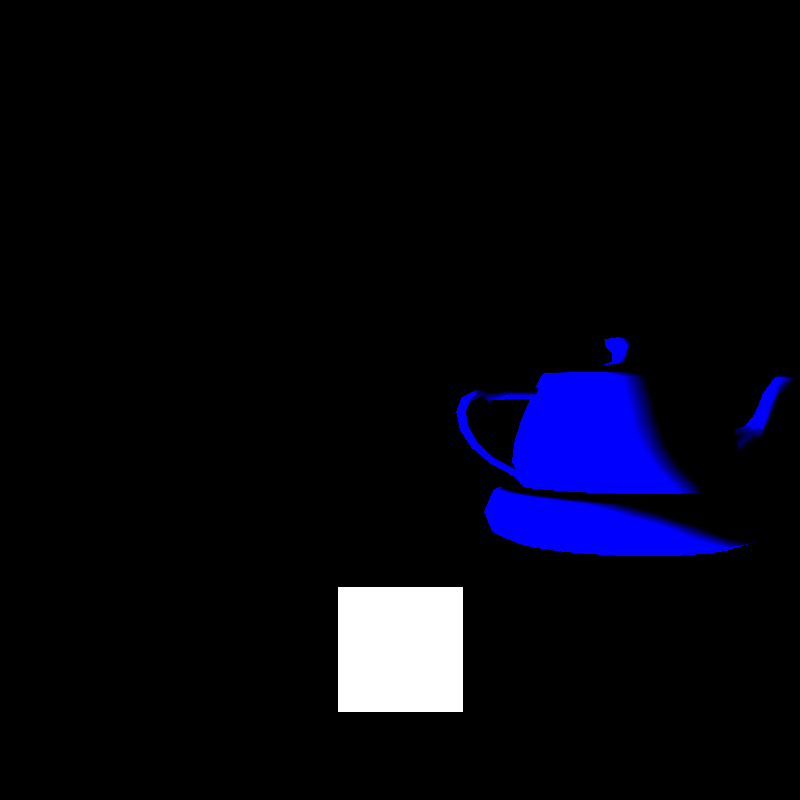
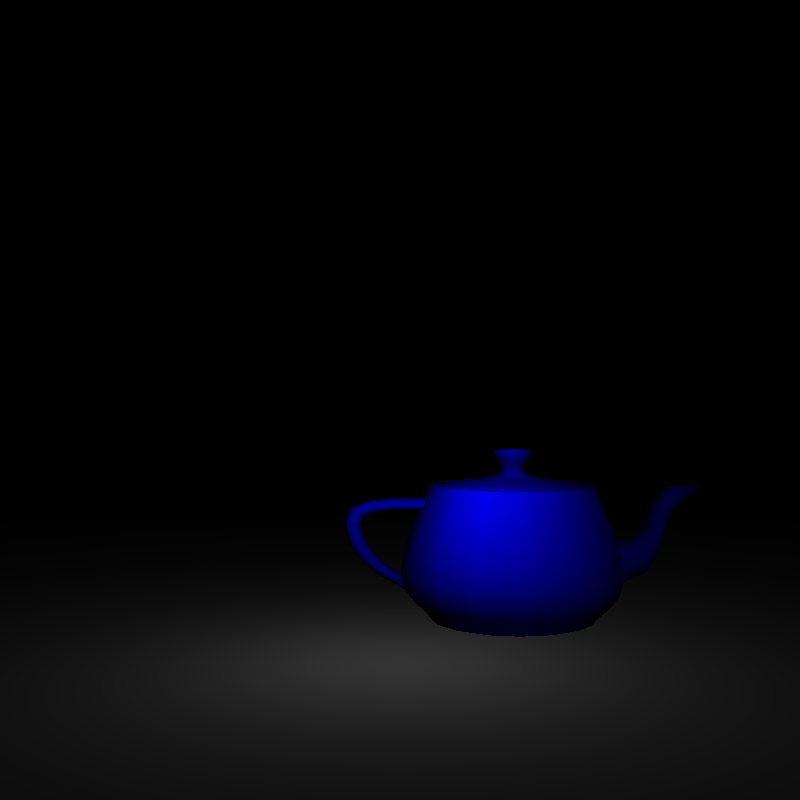
Raytracer v0.7.5
Light range applied

Changed region(s): [[0.125, 0.4062, 0.9375, 0.9688], [0.9062, 0.4688, 1.0, 0.5625]]

diff --git a/src/edu/up/isgc/raytracer/Raytracer.java b/src/edu/up/isgc/raytracer/Raytracer.java
@@ -27,18 +27,20 @@ public class Raytracer {
     public static void main(String[] args) {
         System.out.println(new Date());
         Scene scene01 = new Scene();
-        scene01.setCamera(new Camera(new Vector3D(0, 0, -8), 160, 160, 800, 800, 8.2f, 10f));
-        //scene01.addLight(new DirectionalLight(Vector3D.ZERO(), new Vector3D(0.0, 0.0, 1.0), Color.WHITE, 0.8));
-        scene01.addLight(new PointLight(new Vector3D(8f,2f,2f), Color.WHITE,0.8));
-        scene01.addObject(new Sphere(new Vector3D(0f, 1f, 5f), 0.5f, Color.RED));
-        scene01.addObject(new Sphere(new Vector3D(0.5f, 1f, 4.5f), 0.25f, new Color(200, 255, 0)));
-        scene01.addObject(new Sphere(new Vector3D(0.35f, 1f, 4.5f), 0.3f, Color.BLUE));
-        scene01.addObject(new Sphere(new Vector3D(4.85f, 1f, 4.5f), 0.3f, Color.PINK));
-        scene01.addObject(new Sphere(new Vector3D(2.85f, 1f, 304.5f), 0.5f, Color.BLUE));
-        scene01.addObject(OBJReader.GetPolygon("Cube.obj", new Vector3D(0f, -2.5f, 1f), Color.WHITE));
-        scene01.addObject(OBJReader.GetPolygon("CubeQuad.obj", new Vector3D(-3f, -2.5f, 3f), Color.GREEN));
-        scene01.addObject(OBJReader.GetPolygon("SmallTeapot.obj", new Vector3D(2f, -1.0f, 1.5f), Color.BLUE));
-        scene01.addObject(OBJReader.GetPolygon("Ring.obj", new Vector3D(2f, -1.0f, 1.5f), Color.BLUE));
+        scene01.setCamera(new Camera(new Vector3D(0, 0, -8), 160, 160, 800, 800, 0f, 50f));
+        scene01.addLight(new DirectionalLight(Vector3D.ZERO(), new Vector3D(0.0, -0.5, 1.0), Color.WHITE, 1.8));
+        //scene01.addLight(new PointLight(new Vector3D(2f,-1.0f,0.5f), Color.WHITE,0.8));
+        //scene01.addObject(new Sphere(new Vector3D(0f, 1f, 5f), 0.5f, Color.RED));
+        //scene01.addObject(new Sphere(new Vector3D(0.5f, 1f, 4.5f), 0.25f, new Color(200, 255, 0)));
+        //scene01.addObject(new Sphere(new Vector3D(0.35f, 1f, 4.5f), 0.3f, Color.BLUE));
+        //scene01.addObject(new Sphere(new Vector3D(4.85f, 1f, 4.5f), 0.3f, Color.PINK));
+        //scene01.addObject(new Sphere(new Vector3D(2.85f, 1f, 304.5f), 0.5f, Color.BLUE));
+        scene01.addObject(new Polygon(new Vector3D(0f, -2f, 0f), new Triangle[]{new Triangle(new Vector3D(10f,0f,10f), new Vector3D(-10f,0f,10f), new Vector3D(-10f,0f,-10f)),
+                new Triangle(new Vector3D(-10f,0f,-10f), new Vector3D(10f,0f,-10f), new Vector3D(10f,0f,10f))}, Color.WHITE));
+        //scene01.addObject(OBJReader.GetPolygon("Cube.obj", new Vector3D(0f, -2.5f, 1f), Color.WHITE));
+        //scene01.addObject(OBJReader.GetPolygon("CubeQuad.obj", new Vector3D(-3f, -2.5f, 3f), Color.GREEN));
+        scene01.addObject(OBJReader.GetPolygon("SmallTeapot.obj", new Vector3D(1f, -2.0f, 1.5f), Color.BLUE));
+        //scene01.addObject(OBJReader.GetPolygon("Ring.obj", new Vector3D(2f, -1.0f, 1.5f), Color.BLUE));
         //scene01.addObject(OBJReader.GetPolygon("Shrek.obj", new Vector3D(4f,-60f, 190f), Color.GREEN));
 
         BufferedImage image = raytrace(scene01);
@@ -76,12 +78,13 @@ public class Raytracer {
                     for (Light light : lights) {
                         float nDotL = light.getNDotL(closestIntersection);
                         float intensity = (float) light.getIntensity() * nDotL;
+                        float lightRange = intensity / (float) Math.pow(Vector3D.magnitude(Vector3D.substract(closestIntersection.getPosition(),light.getPosition())),2) ;
                         Color lightColor = light.getColor();
                         Color objColor = closestIntersection.getObject().getColor();
                         float[] lightColors = new float[]{lightColor.getRed() / 255.0f, lightColor.getGreen() / 255.0f, lightColor.getBlue() / 255.0f};
                         float[] objColors = new float[]{objColor.getRed() / 255.0f, objColor.getGreen() / 255.0f, objColor.getBlue() / 255.0f};
                         for (int colorIndex = 0; colorIndex < objColors.length; colorIndex++) {
-                            objColors[colorIndex] *= intensity * lightColors[colorIndex];
+                            objColors[colorIndex] *= lightRange * lightColors[colorIndex];
                         }
                         Color diffuse = new Color(clamp(objColors[0], 0, 1),clamp(objColors[1], 0, 1),clamp(objColors[2], 0, 1));
                         pixelColor = addColor(pixelColor, diffuse);

diff --git a/src/edu/up/isgc/raytracer/lights/PointLight.java b/src/edu/up/isgc/raytracer/lights/PointLight.java
@@ -1,3 +1,7 @@
+/**
+ * [1968] - [2021] Centros Culturales de Mexico A.C / Universidad Panamericana
+ * All Rights Reserved.
+ */
 package edu.up.isgc.raytracer.lights;
 
 import edu.up.isgc.raytracer.Intersection;
@@ -5,13 +9,17 @@ import edu.up.isgc.raytracer.Vector3D;
 
 import java.awt.*;
 
-public class PointLight extends Light{
-    public PointLight(Vector3D position, Color color, double intensity){
+/**
+ * @author Jafet Rodríguez
+ */
+public class PointLight extends Light {
+    public PointLight(Vector3D position, Color color, double intensity) {
         super(position, color, intensity);
     }
 
     @Override
     public float getNDotL(Intersection intersection) {
-        return (float)Math.max(Vector3D.dotProduct(intersection.getNormal(), Vector3D.scalarMultiplication(Vector3D.substract(this.getPosition(), intersection.getPosition()),-1.0)), 0.0);
+        return (float) Math.max(Vector3D.dotProduct(intersection.getNormal(),
+                Vector3D.normalize(Vector3D.substract(getPosition(), intersection.getPosition()))), 0.0);
     }
 }
